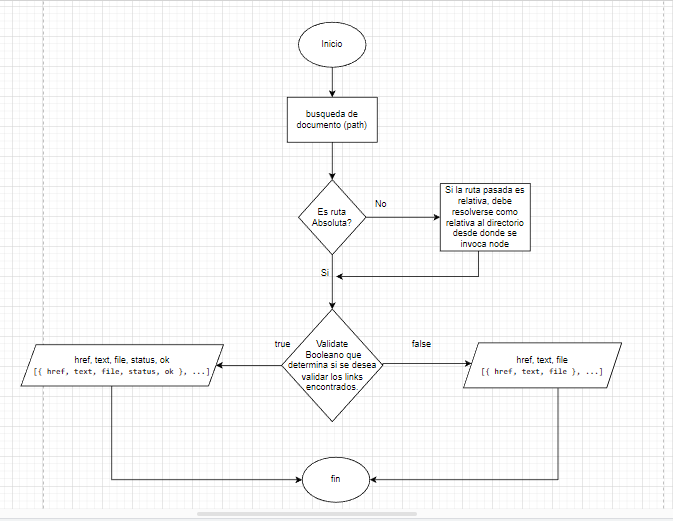
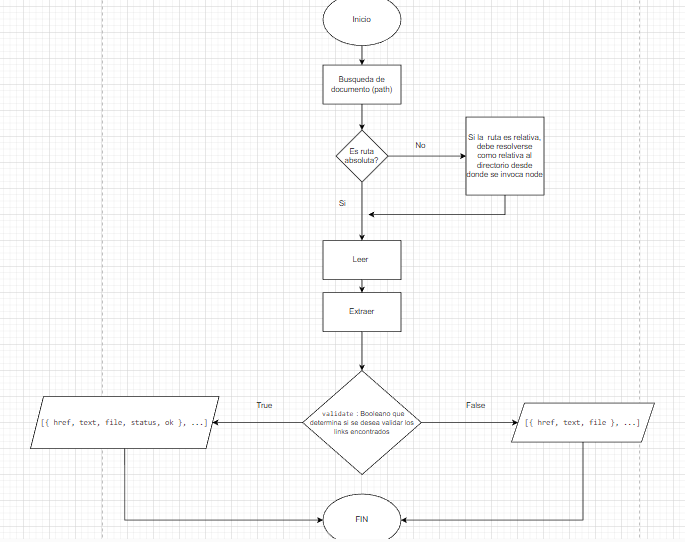
se cambio de sincrono a asincono para ver los archivos dentro del directorio

diff --git a/index.js b/index.js
@@ -1,14 +1,15 @@
-import { existsSync, readdir } from 'node:fs'
+import { existsSync, readdir, readdirSync } from 'node:fs'
 import { resolve, isAbsolute } from 'node:path'
-
 import { readFile } from 'node:fs/promises'
+import fs from 'fs/promises';
 
-// mdLinks resive dos parametros
+// mdLinks recibe dos parametros
 // devuelve una promesa
 // resolve callback
 // reject
 
-const path = './';
+const path = './README.MD';
+
 // **********************//
 // La ruta es absoluta ? //
 // **********************//
@@ -32,33 +33,56 @@ export const mdLinks = (path, options) => {
   });
 };
 
-// ******************************************************************  //
-// readdir con el forEach lee todos los archivos dentro del directorio //
-// en este caso esta leyendo los archivos que terminan .md             //
-// ******************************************************************  //
+// ********************************************************************************************//
+// *readdir* con el forEach lee todos los archivos dentro del directorio                       //
+// en este caso esta leyendo los archivos que terminan .md                                     //
+// *endsWith* determinar si una cadena de texto termina con ciertos caracteres especificados   //
+// ********************************************************************************************//
 
-readdir('./', (error, archivos) => {
-  archivos.forEach(archivo => {
-    console.log('Todos los archivos del directorio: ', archivo);    
-  });
-  const archivosMd = archivos.filter(archivo => archivo.endsWith('.md'));
-  console.log('Archivos que terminan en .md: ', archivosMd);
+
+const archivos = readdirSync('./');
+archivos.forEach(archivo => {
+  console.log('Todos los archivos del directorio: ', archivo);    
 });
-
-
+const archivosMd = archivos.filter(archivo => archivo.endsWith('.md'));      
+console.log('Archivos que terminan en .md: ', archivosMd);
 
 
 
 // falta entrar en el archivo .md y extraer los link 
 // Para leer el contenido del archivo .md (se coloca utf para convertir el contenido y sea pueda entender)
 
- readFile ('nombre del archivo', 'utf-8', (error, data) =>{
-   if (!error) {
-     console.log(data);
-   }else {
-     console.log('error: ${error}');
-   }
- });
+// readFile ('README.md', 'utf-8', (error, data) =>{
+//   if (!error) {
+//     console.log(data);
+//   }else {
+//     console.log('error: ${error}');
+//   }
+// });
+
+// const fs = require('fs');
+
+//  function readFileAsync(path, encoding) {
+  // return new Promise((resolve, reject) => {
+    // console.log(readFileAsync);
+    // readFile(path, encoding, (err, data) => {
+      // if (err) {
+        // reject(err);
+      // } else {
+        // resolve(data);
+      // }
+    // });
+  // });
+//  
+ 
+//  eadFileAsync('README.md', 'utf-8')
+  // .then((data) => {
+    // console.log(data);
+  // })
+  // .catch((error) => {
+    // console.log(`Error: ${error}`);
+  // });
+
 
 
 

diff --git a/test/md-links.spec.js b/test/md-links.spec.js
@@ -26,3 +26,22 @@ const { mdLinks } = require('../index.js');
 //    })
 //   });
 // });
+
+
+//// para identificar los link a la hora de hacer los test
+/* describe("mdLinks", () => {
+it('mdLinks procesa un solo archivo con 3 links sin validar'), () =>{
+  const ruta = 'ejemplo.md';
+
+  return mdLinks(ruta, {validate: false}))
+  .then(
+    (array) => {
+      expect(array).toEqual([
+        href: 'https://carlosazaustre.es/manejando-la-asincronia-en-javascript',
+        text: 'Asíncronía en js',
+        file: 'ejemplo.md',
+      ])
+    }
+  )
+  }
+}); */
